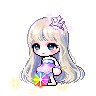
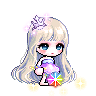
캐릭터 이미지 미러링

diff --git a/character.js b/character.js
@@ -12,6 +12,8 @@ export class Character {
 
     this.gravity = 0;
     this.isJumping = false;
+
+    this.flipY = false;
   }
 
   draw(
@@ -21,13 +23,21 @@ export class Character {
     upPressed,
     downPressed,
     spacePressed,
-    characterImage
+    characterImage,
+    characterImageFlipped
   ) {
     // 캐릭터 이동
     if (rightPressed && !leftPressed && this.x < this.stageWidth - this.width) {
       this.x += this.vx;
+      if (this.flipY) {
+        this.flipY = false;
+      }
     } else if (leftPressed && !rightPressed && this.x > 0) {
       this.x -= this.vx;
+
+      if (!this.flipY) {
+        this.flipY = true;
+      }
     }
     if (downPressed && !upPressed && this.y < this.stageHeight - this.height) {
       this.y += this.vy;
@@ -64,7 +74,12 @@ export class Character {
     ctx.translate(this.stageWidth / 2 - this.width / 2, this.stageHeight * 0.7);
 
     ctx.translate(-this.x, -this.y);
-    ctx.drawImage(characterImage, this.x, this.y);
+
+    ctx.drawImage(
+      this.flipY ? characterImageFlipped : characterImage,
+      this.x - characterImage.width / 2,
+      this.y
+    );
 
     // ctx.fillStyle = "red";
     // ctx.beginPath();

diff --git a/app.js b/app.js
@@ -43,6 +43,7 @@ function keyUpHandler(e) {
 
 let backgroundImage;
 let characterImage;
+let characterImageFlipped;
 
 function copyImageToCanvas() {
   backgroundImage = new Image();
@@ -50,6 +51,9 @@ function copyImageToCanvas() {
 
   characterImage = new Image();
   characterImage.src = "./img/test_char.png";
+
+  characterImageFlipped = new Image();
+  characterImageFlipped.src = "./img/test_char_flipped.png";
 }
 
 class App {
@@ -92,6 +96,7 @@ class App {
 
   animate(t) {
     window.requestAnimationFrame(this.animate.bind(this));
+
     this.ctx.clearRect(
       -this.stageWidth,
       -this.stageHeight,
@@ -125,7 +130,8 @@ class App {
       upPressed,
       downPressed,
       spacePressed,
-      characterImage
+      characterImage,
+      characterImageFlipped
     );
 
     //testConsole

diff --git a/background.js b/background.js
@@ -21,7 +21,7 @@ export class Background {
     ctx.drawImage(
       backgroundImage,
       this.stageWidth / 2 - backgroundImage.naturalWidth / 2,
-      -33
+      330
     );
 
     // ctx.fillStyle = "yellow";

diff --git a/index.html b/index.html
@@ -7,5 +7,6 @@
   </head>
   <body>
     <script type="module" src="app.js"></script>
+    <img id="flip" src="./img/test_char.png" style="filter: FlipH" />
   </body>
 </html>

diff --git a/style.css b/style.css
@@ -27,3 +27,7 @@ canvas {
 img {
   display: none;
 }
+
+#flip {
+  transform: scale(2, 2);
+}
